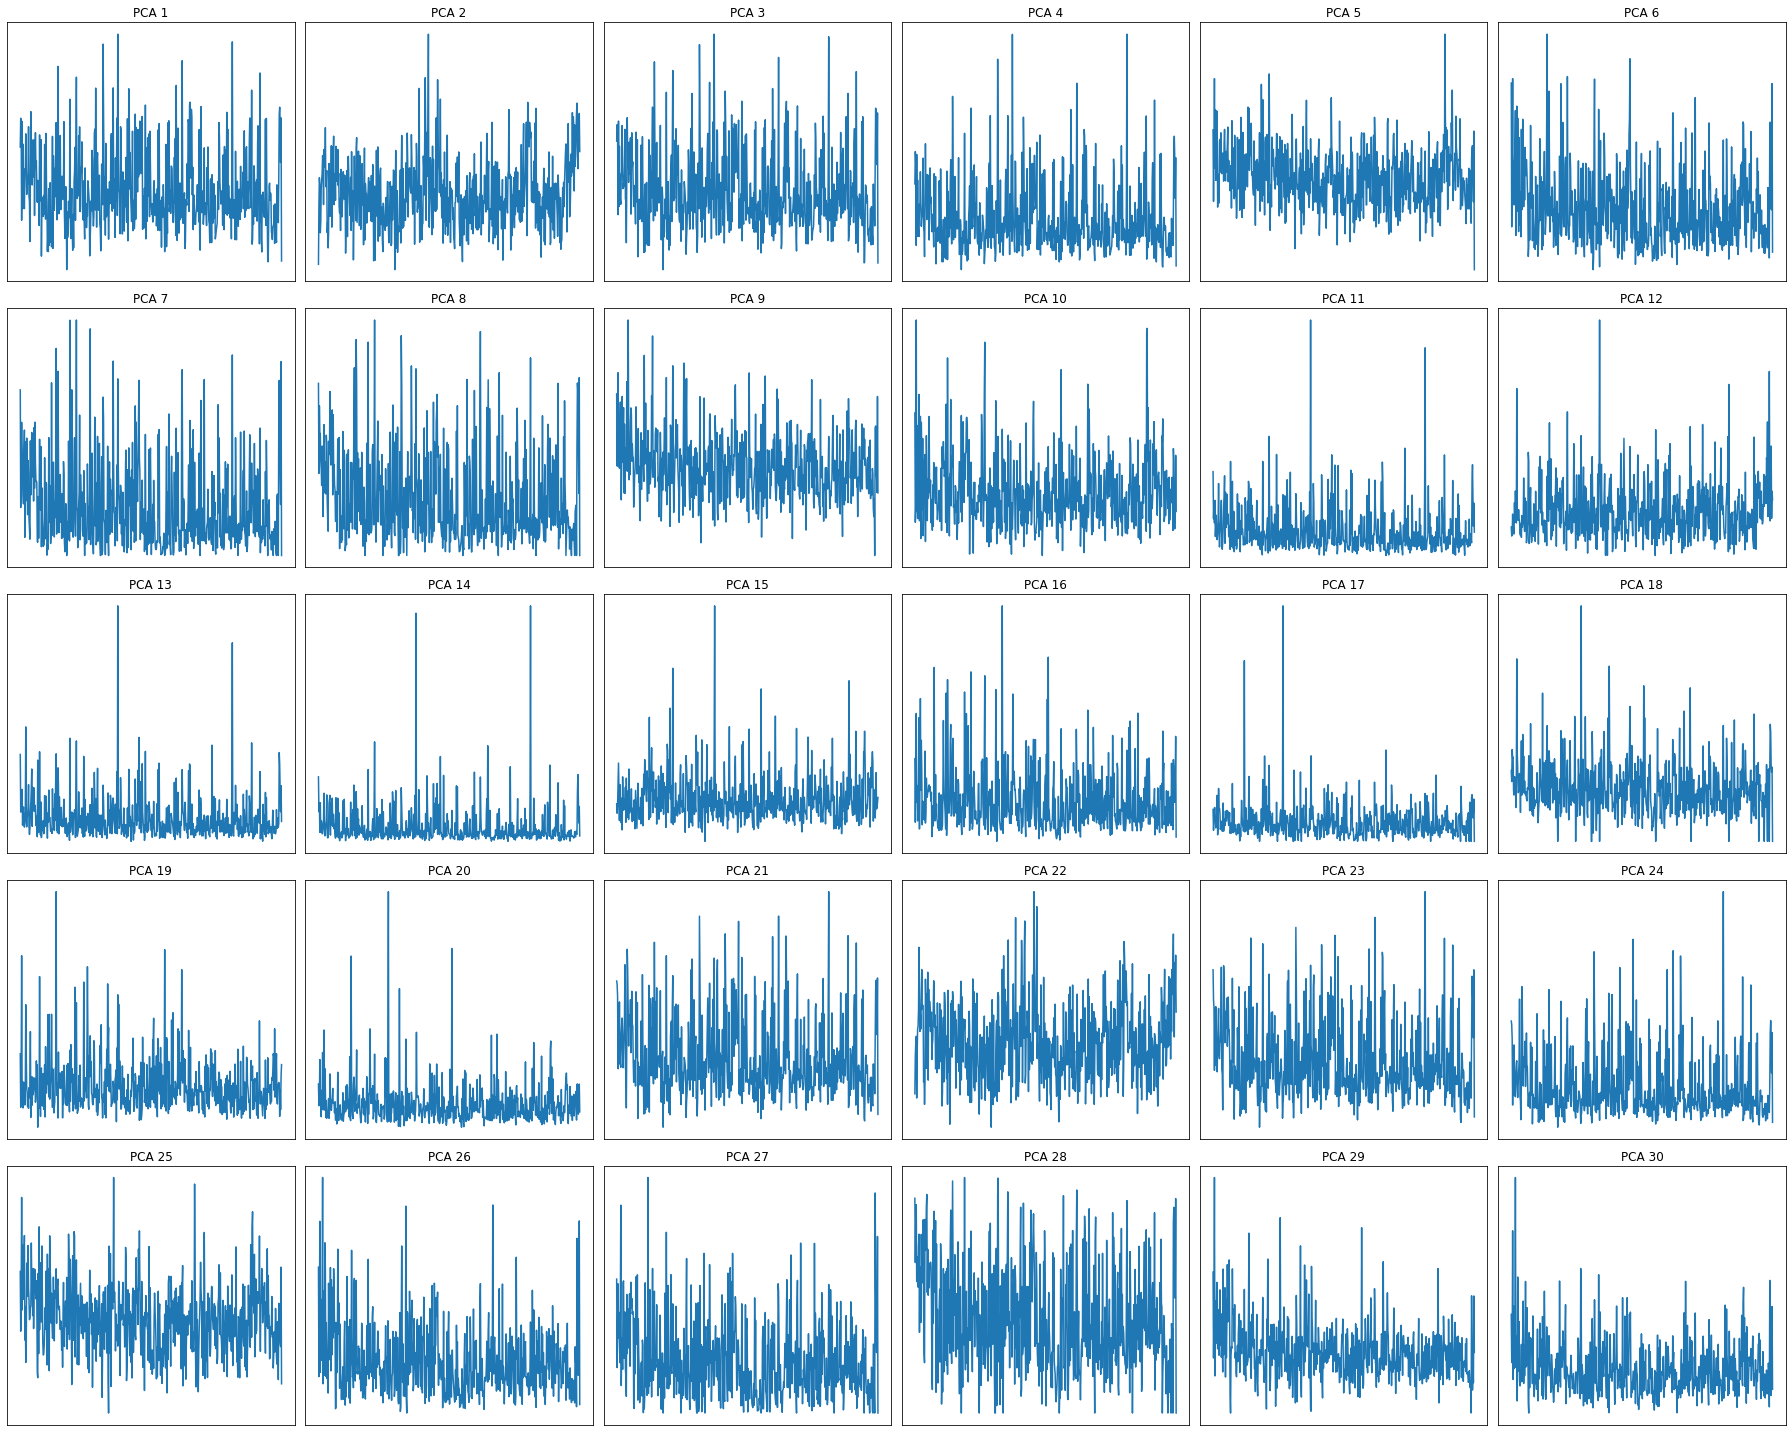
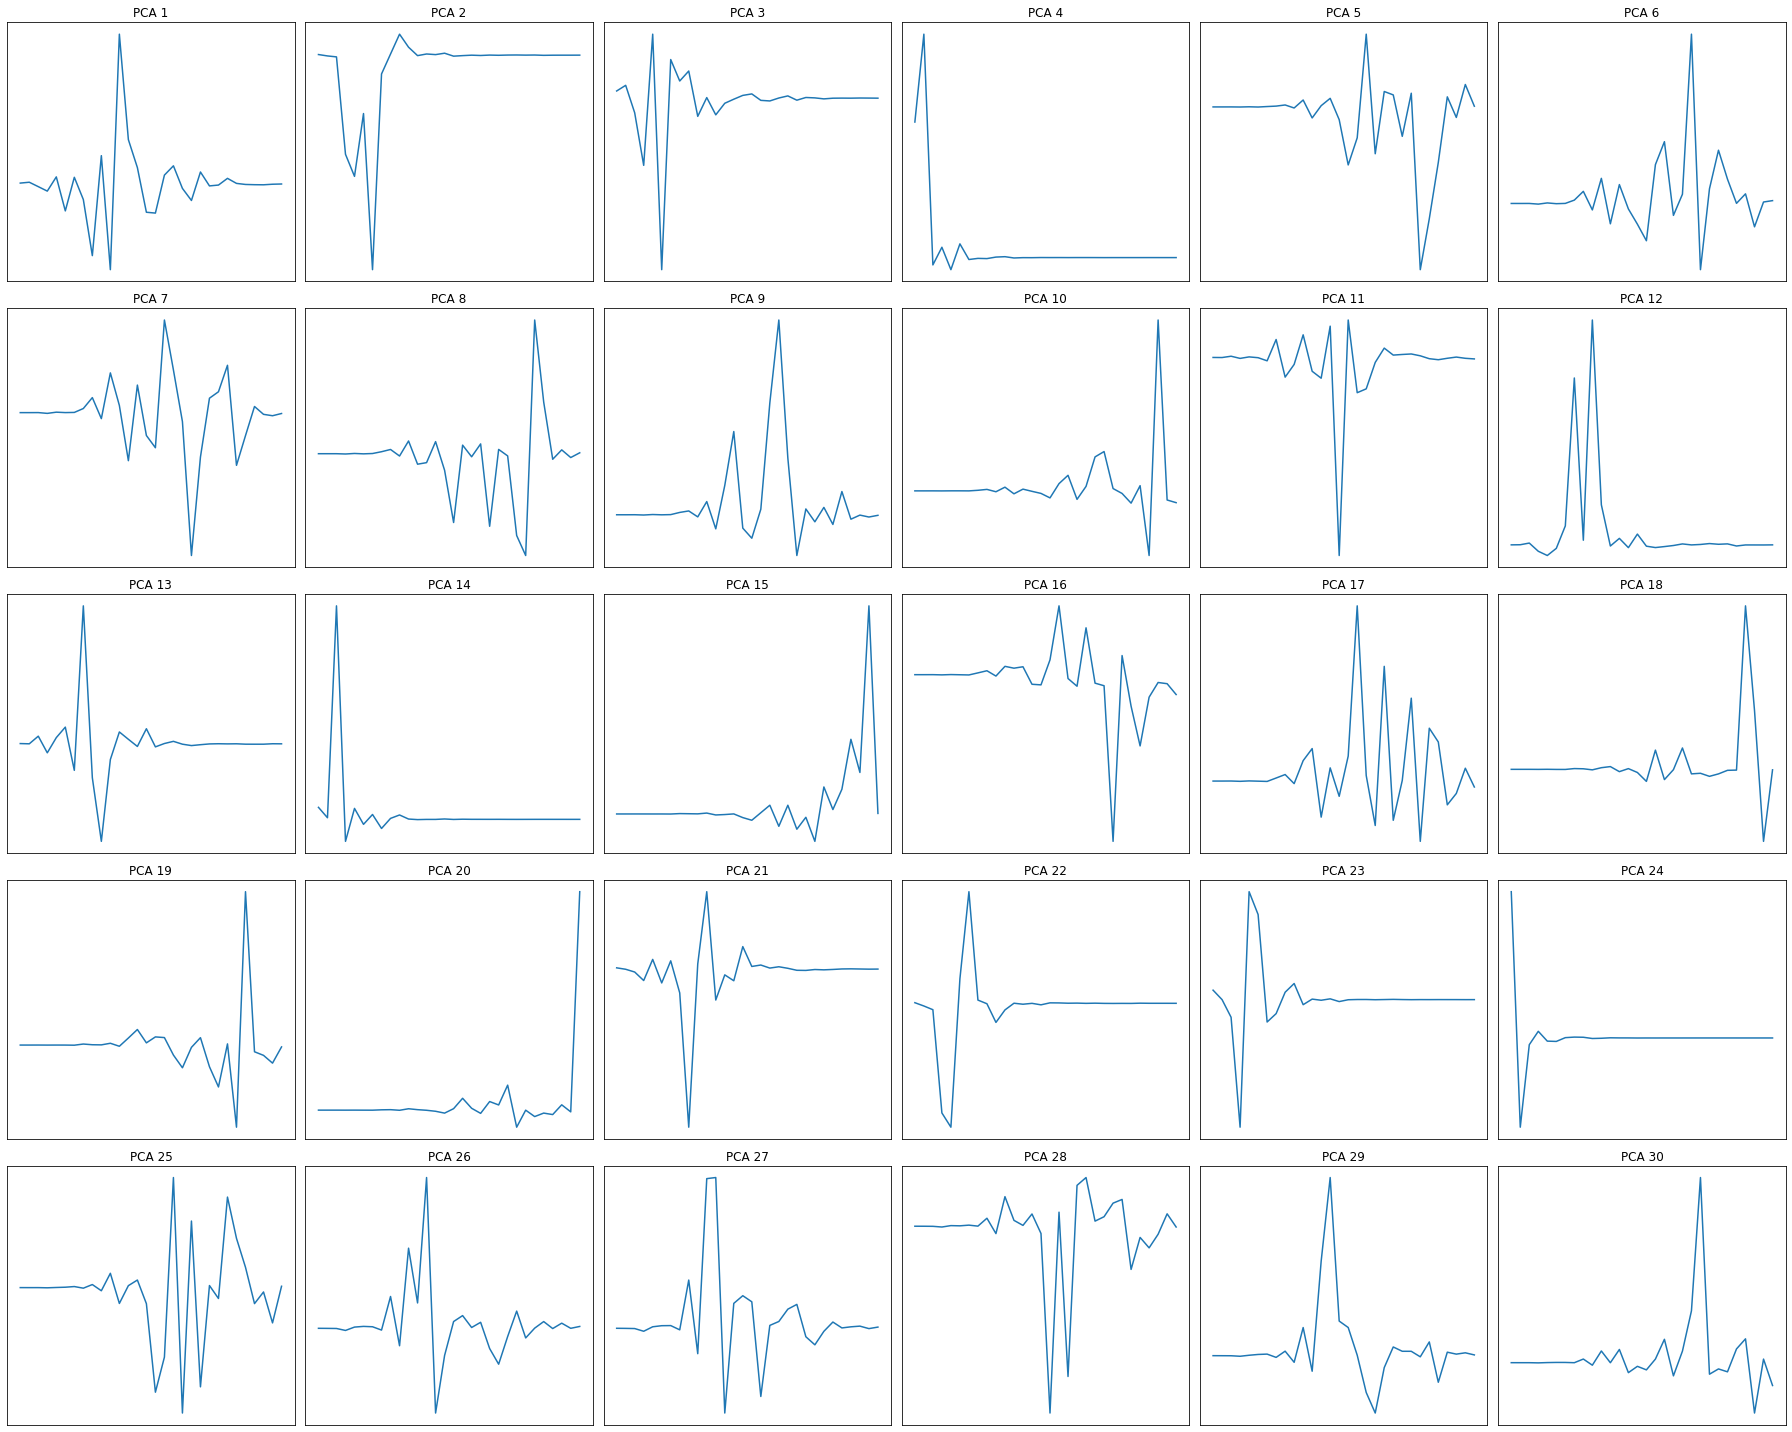
Fix on pca eigenvalues plotting

diff --git a/06_PCA/template.py b/06_PCA/template.py
@@ -57,11 +57,12 @@ def _plot_pca_components():
     
     pca = PCA(n_components=30)
     pca.fit(X)
+    eigenvalues = pca.components_
     
     plt.figure(figsize=(25, 20))
     for i in range(30):
         plt.subplot(5, 6, i+1)
-        plt.plot(X[:, i])
+        plt.plot(eigenvalues[:, i])
         plt.title(f'PCA {i + 1}')
         plt.xticks([])
         plt.yticks([])
